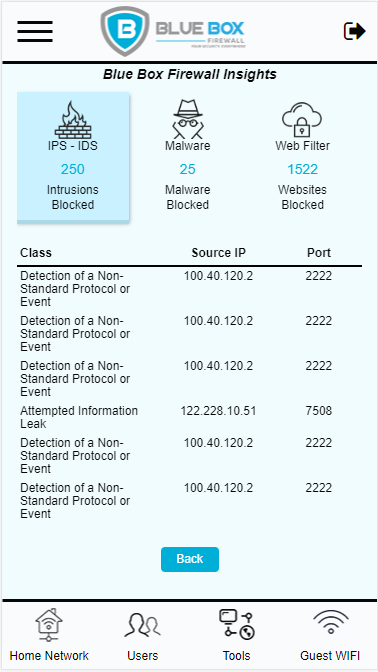
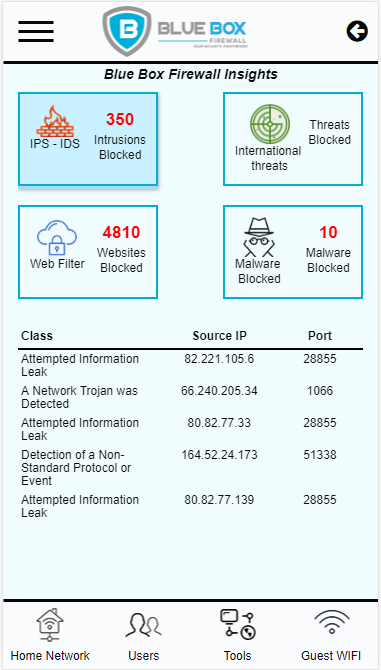
photos
changed the screen photos and commited new updates

diff --git a/index.html b/index.html
@@ -397,8 +397,9 @@
 			<p>On the top of this screen, there are three different options for user to choose</p>
 			<ol>
 				<li>When a user clicks on the Blue Box Firewall IPS - IDS feature, it displays a list of alerts detected on the network with Class name, Source IP address and Port number.</li>
-				<li>When a user clicks on the Blue Box Firewall Malware feature, it displays a list of alerts on the network with the Block Rule, Source, and Country Code.</li>
+				<li>When a user clicks on the Blue Box Firewall International threats feature, it displays a list of alerts on the network with the Block Rule, Source, and Country Code.</li>
 				<li>When a user clicks on the Blue Box Firewall Web Filter feature, it displays a list of blocked websites with Domain name, the user it was blocked under, and the Client IP address.</li>
+				<li>When a user clicks on the Blue Box Firewall Malware feature, it displays list of domains blocked along with client IP address.</li>
 			</ol>
 		</ul>
 		<hr/>
